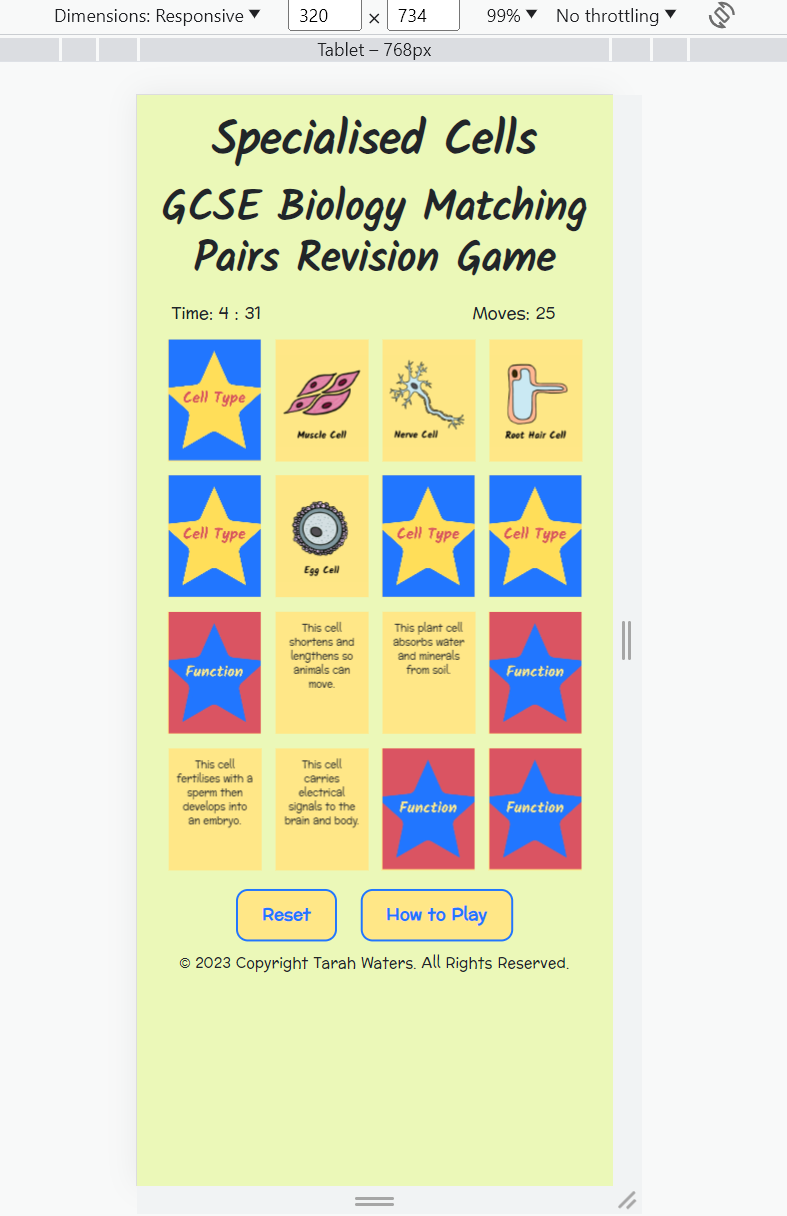
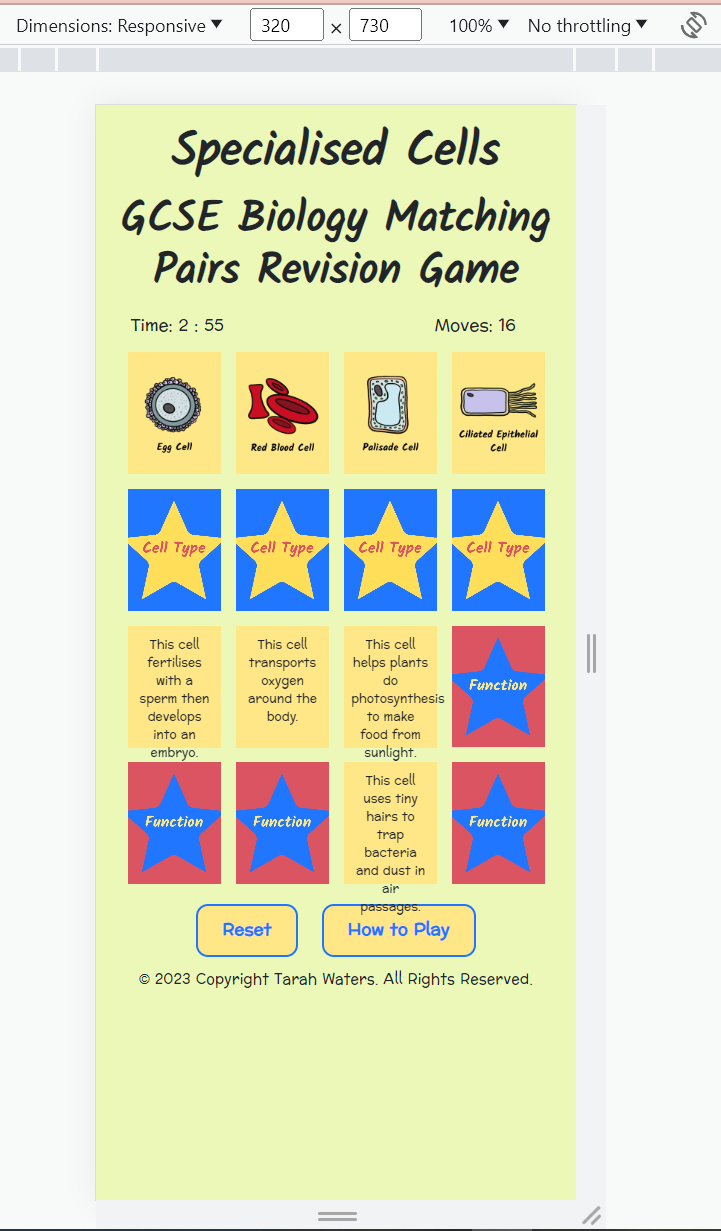
Edit notes for small mobile responsiveness

Changed region(s): [[0.0, 0.0, 1.0, 1.0], [0.4882, 0.9688, 0.5187, 1.0], [0.4272, 0.9688, 0.4577, 1.0]]

diff --git a/TESTING.md b/TESTING.md
@@ -92,10 +92,10 @@ I have tested my deployed project on multiple devices to check for responsivenes
 
 | Device | Screenshot | Notes |
 | --- | --- | --- |
-| **Small Mobile** 320x734 (DevTools) | [Main GamePlay](documentation/testing/responsive-small-mob-main.png) / [Help Modal](documentation/testing/responsive-small-mob-help.png) / [Win Modal](documentation/testing/responsive-small-mob-win.png)   | Works as expected - font sizing a little small but adapted to fit to the smallest screen size (otherwise the text may not fit the cards) |
-| **Medium Mobile** 375x374 (iPhone SE using DevTools) | [Main GamePlay](documentation/testing/responsive-med-mob-main.png) / [Help Modal](documentation/testing/responsive-med-mob-help.png) / [Win Modal](documentation/testing/responsive-med-mob-win.png) | Works as expected - but card font sizing a little small |
+| **Small Mobile** 320x734 (DevTools) | [Main GamePlay](documentation/testing/responsive-small-mob-main.png) / [Help Modal](documentation/testing/responsive-small-mob-help.png) / [Win Modal](documentation/testing/responsive-small-mob-win.png)   | Font-sizing on cards is slightly too big for devices <340px width (see **Main GamePlay** screenshot) so the game is recommended for use on bigger screens until this error is fixed in future |
+| **Medium Mobile** 375x374 (iPhone SE using DevTools) | [Main GamePlay](documentation/testing/responsive-med-mob-main.png) / [Help Modal](documentation/testing/responsive-med-mob-help.png) / [Win Modal](documentation/testing/responsive-med-mob-win.png) | Works as expected |
 | **Large Mobile** 412x915 (Samsung s20 Ultra) | [Main GamePlay](documentation/testing/responsive-large-mob-main.png) / [Help Modal](documentation/testing/responsive-large-mob-help.png) / [Win Modal](documentation/testing/responsive-large-mob-win.png) | Works as expected |
-| **Tablet** 786x734 (iPad Pro) | [Main GamePlay](documentation/testing/responsive-tablet-main.png) / [Help Modal](documentation/testing/responsive-tablet-help.png) / [Win Modal](documentation/testing/responsive-tablet-win.png) | DevTools shows backfaces of cards to be more zoomed in than expected (on vertical viewing), but this does not distort the image and the user can still read the card. Hoirzontal viewing works as expected |
+| **Tablet** 786x734 (iPad Pro) | [Main GamePlay](documentation/testing/responsive-tablet-main.png) / [Help Modal](documentation/testing/responsive-tablet-help.png) / [Win Modal](documentation/testing/responsive-tablet-win.png) | DevTools shows backfaces of cards to be more zoomed in than expected (on vertical viewing), but this does not distort the image and the user can still read the cards normally. Hoirzontal viewing works as expected |
 | **17" Laptop** 1707x960 | [Main GamePlay](documentation/testing/responsive-17laptop-main.png) / [Help Modal](documentation/testing/responsive-17laptop-help.png) / [Win Modal](documentation/testing/responsive-17laptop-win.png) | Works as expected   |
 | **22" Desktop** 1680x1050 | [Main GamePlay](documentation/testing/responsive-22desktop-main.png) / [Help Modal](documentation/testing/responsive-22desktop-help.png) / [Win Modal](documentation/testing/responsive-22desktop-win.png) | Works as expected |
 | **4K Monitor** 2560x1506 | [Main GamePlay](documentation/testing/responsive-4Kdesktop-main.png) / [Help Modal](documentation/testing/responsive-4Kdesktop-help.png) / [Win Modal](documentation/testing/responsive-4Kdesktop-win.png) | Works as expected after adding a final media query to target screens over 2000px width (font sizing was previously a little small) |
